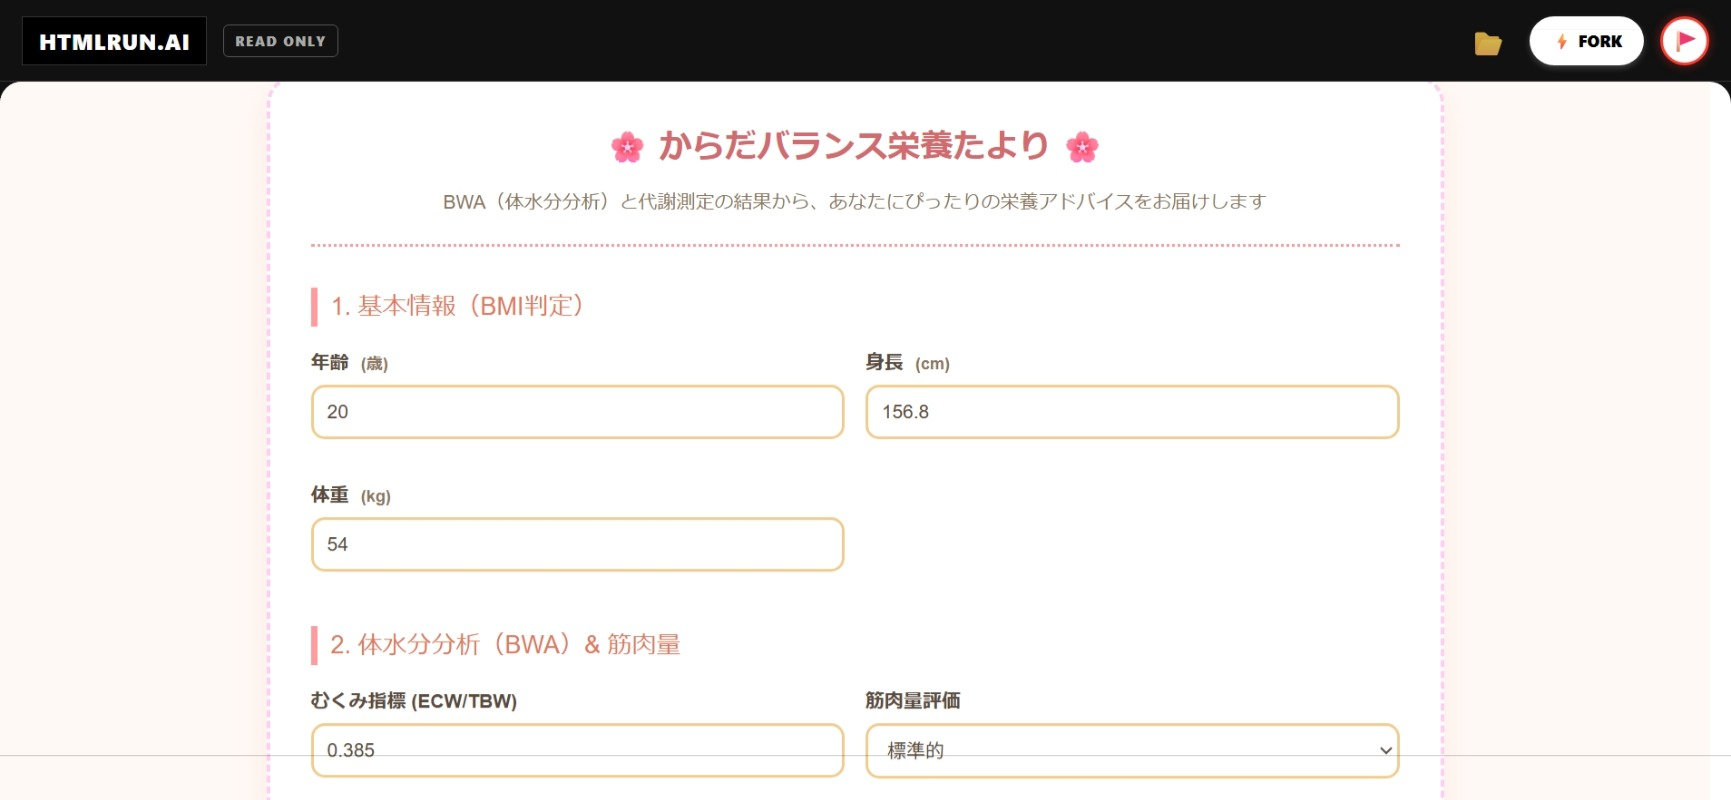
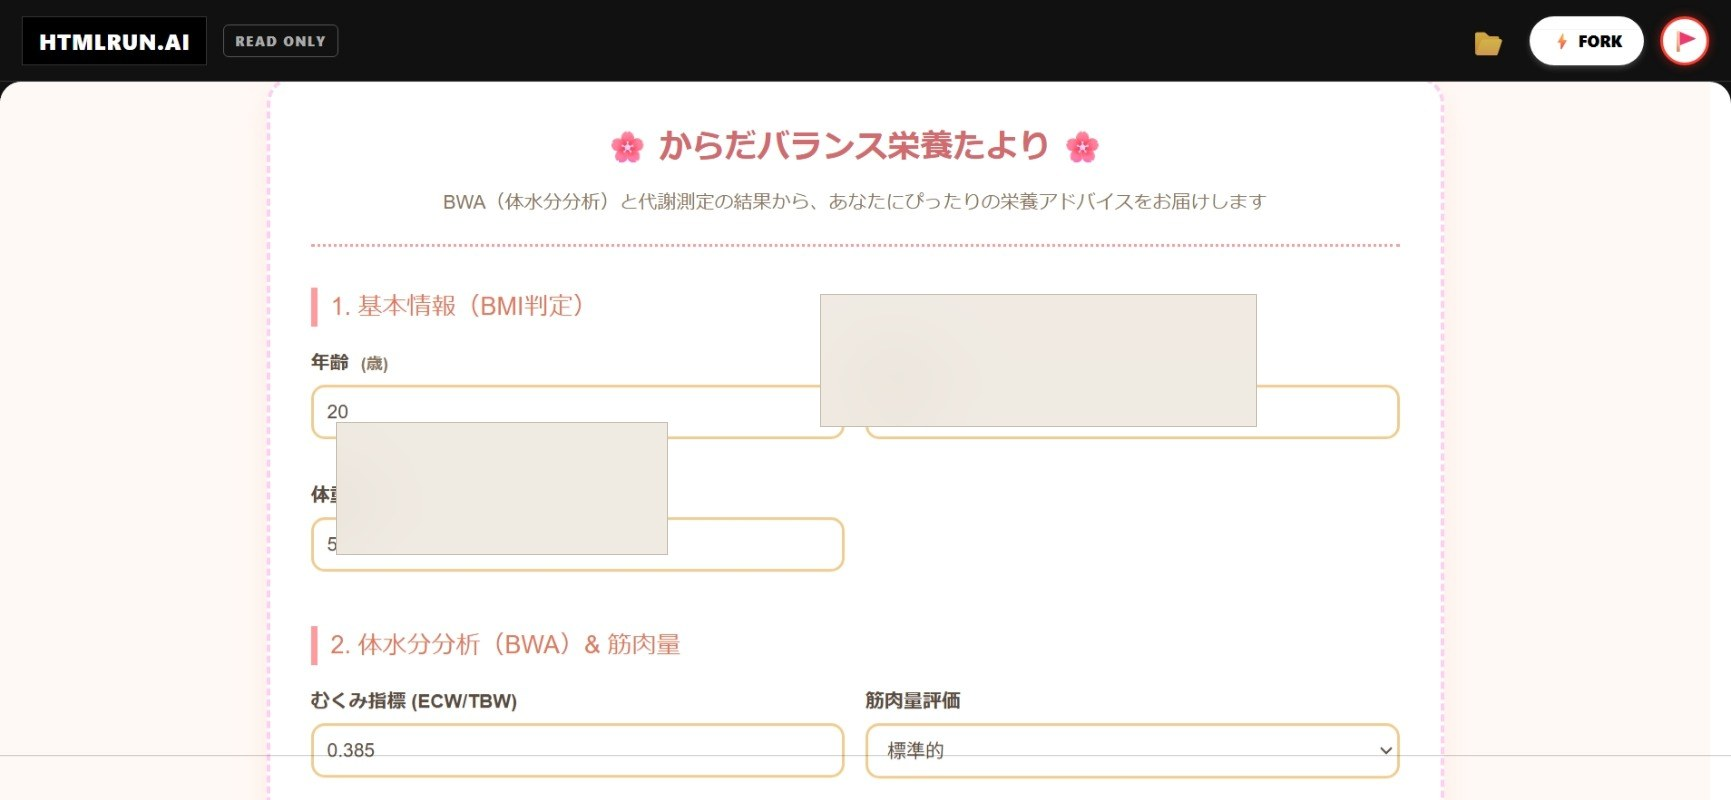
fix: 教員コラム画像の身長・体重をマスクして個人情報を保護

Changed region(s): [[0.4679, 0.3438, 0.7487, 0.5312], [0.1872, 0.5, 0.4055, 0.7188]]

diff --git a/scripts/blur_column_personal_data.py b/scripts/blur_column_personal_data.py
@@ -1,0 +1,109 @@
+"""
+コラム画像の身長・体重入力欄を加工して個人が特定されないようにする。
+
+使い方: python scripts/blur_column_personal_data.py
+"""
+from pathlib import Path
+import shutil
+
+from PIL import Image, ImageDraw, ImageFilter
+
+ROOT = Path(__file__).resolve().parent.parent
+ASSETS = ROOT / "src" / "assets" / "eiyo-app"
+SOURCES = {
+    "app-input.jpg": "docs/eiyo-apli-report/25NB026_1_1_スクリーンショット_19-5-2026_113150_htmlrun.ai.jpeg",
+    "student-app-design.jpg": "docs/eiyo-apli-report/25NB014_1_1_20260519_115546.jpg",
+    "students-coding.jpg": "docs/eiyo-apli-report/25NB060_1_1_IMG_7157.jpeg",
+}
+
+FILL = (235, 228, 218)  # 入力欄に近いベージュ
+PADDING = 10
+
+
+def obscure_box(img: Image.Image, box: tuple[int, int, int, int]) -> None:
+    x0, y0, x1, y1 = box
+    w, h = img.size
+    x0 = max(0, x0 - PADDING)
+    y0 = max(0, y0 - PADDING)
+    x1 = min(w, x1 + PADDING)
+    y1 = min(h, y1 + PADDING)
+    if x1 <= x0 or y1 <= y0:
+        return
+    region = img.crop((x0, y0, x1, y1))
+    region = region.filter(ImageFilter.GaussianBlur(radius=30))
+    overlay = Image.new("RGB", region.size, FILL)
+    region = Image.blend(region, overlay, alpha=0.75)
+    img.paste(region, (x0, y0))
+    draw = ImageDraw.Draw(img)
+    draw.rectangle((x0, y0, x1, y1), outline=(200, 190, 175), width=1)
+
+
+def box_from_fractions(
+    size: tuple[int, int],
+    regions: list[tuple[float, float, float, float]],
+) -> list[tuple[int, int, int, int]]:
+    w, h = size
+    return [
+        (int(a * w), int(b * h), int(c * w), int(d * h))
+        for a, b, c, d in regions
+    ]
+
+
+def save_jpg(path: Path, img: Image.Image) -> None:
+    img.save(path, quality=88, optimize=True)
+
+
+def process_app_input(path: Path) -> None:
+    img = Image.open(path).convert("RGB")
+    for box in box_from_fractions(
+        img.size,
+        [
+            (0.48, 0.38, 0.72, 0.52),  # 身長（右列・上段）
+            (0.20, 0.54, 0.38, 0.68),  # 体重（左列・下段）
+        ],
+    ):
+        obscure_box(img, box)
+    save_jpg(path, img)
+    print(f"Updated: {path.name}")
+
+
+def process_student_app_design(path: Path) -> None:
+    """横向き撮影 → 正立してから加工（コラム表示も見やすく）"""
+    img = Image.open(path).convert("RGB").rotate(-90, expand=True)
+    for box in box_from_fractions(
+        img.size,
+        [
+            (0.50, 0.47, 0.86, 0.56),  # 身長
+            (0.06, 0.53, 0.42, 0.62),  # 体重
+        ],
+    ):
+        obscure_box(img, box)
+    save_jpg(path, img)
+    print(f"Updated (upright): {path.name} {img.size}")
+
+
+def process_students_coding(path: Path) -> None:
+    img = Image.open(path).convert("RGB").rotate(-90, expand=True)
+    for box in box_from_fractions(
+        img.size,
+        [
+            (0.08, 0.52, 0.37, 0.59),  # 身長（左列・下段）
+            (0.49, 0.52, 0.80, 0.59),  # 体重（右列・下段）
+        ],
+    ):
+        obscure_box(img, box)
+    save_jpg(path, img)
+    print(f"Updated (upright): {path.name} {img.size}")
+
+
+def main() -> None:
+    for dest, src in SOURCES.items():
+        shutil.copy2(ROOT / src, ASSETS / dest)
+
+    process_app_input(ASSETS / "app-input.jpg")
+    process_student_app_design(ASSETS / "student-app-design.jpg")
+    process_students_coding(ASSETS / "students-coding.jpg")
+
+
+if __name__ == "__main__":
+    main()
